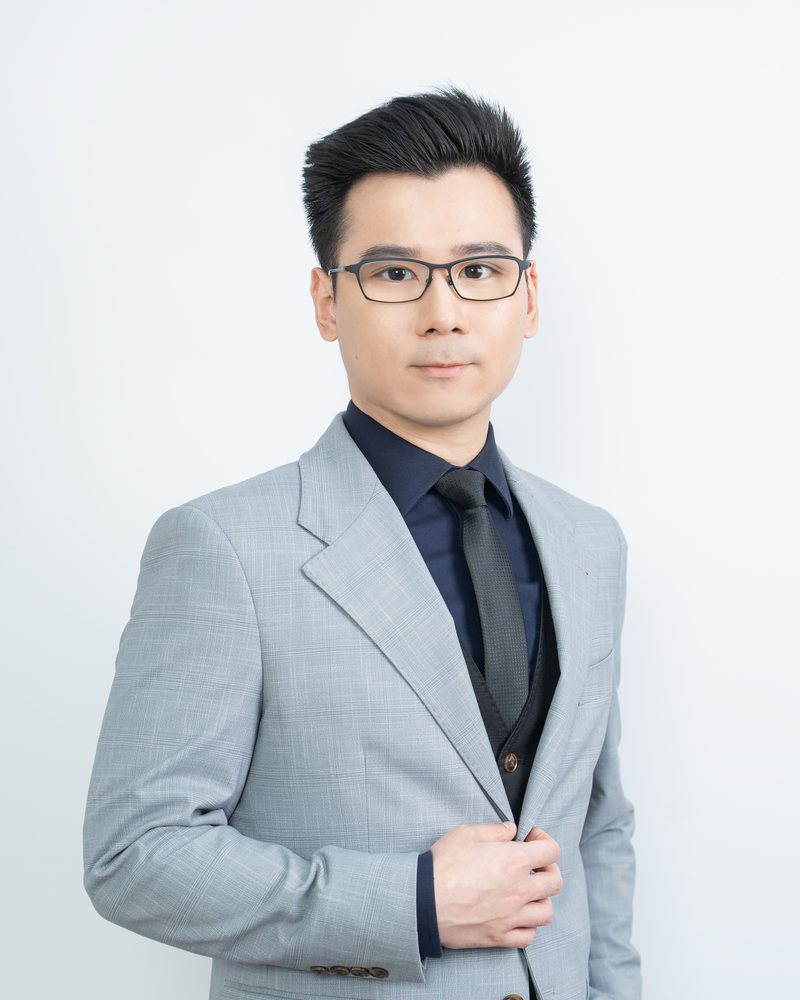
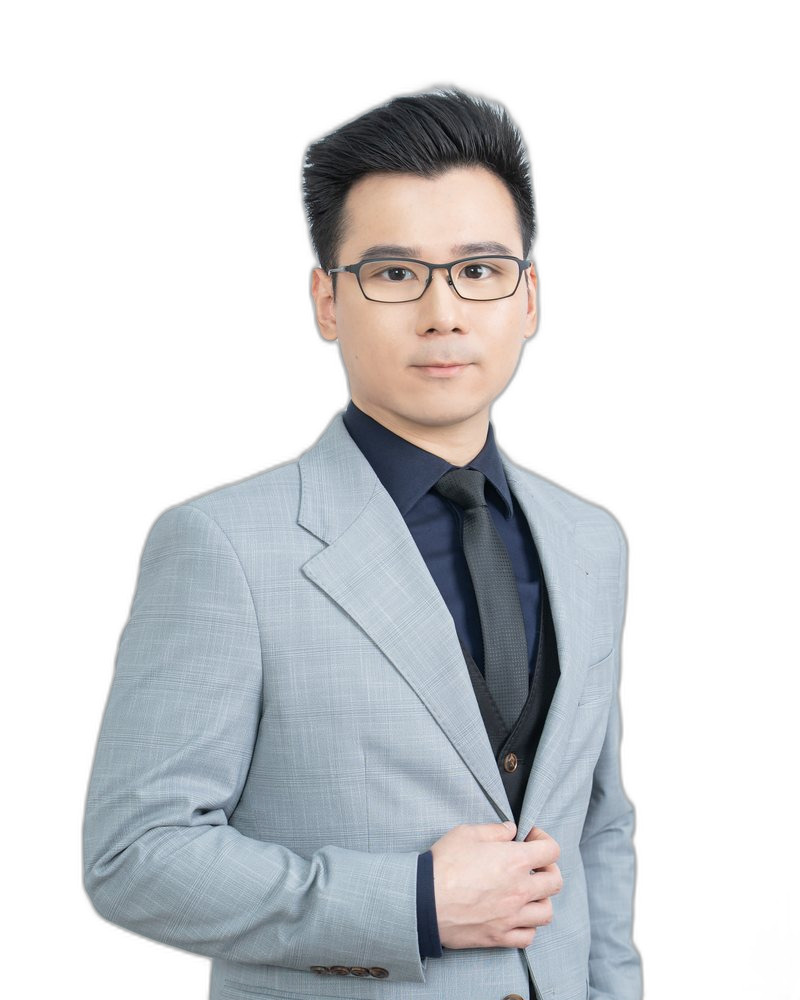
Unify team photo backgrounds to white (except Maggie); reframe Alan to match team

diff --git a/index-v4.html b/index-v4.html
@@ -457,7 +457,7 @@
         </div>
         <!-- Leon Chiu -->
         <div class="team-card" data-card-toggle>
-            <img class="team-photo" loading="lazy" decoding="async" src="images/team/leon.jpg?v=4" width="800" height="1000" alt="Mr. Leon Chiu">
+            <img class="team-photo" loading="lazy" decoding="async" src="images/team/leon.jpg?v=6" width="800" height="1000" alt="Mr. Leon Chiu">
             <div class="team-info">
                 <h3>Mr. Leon Chiu <span class="cn-inline">趙英安律師</span></h3>
                 <div class="role en">Associate Solicitor</div>
@@ -470,7 +470,7 @@
         </div>
         <!-- Alex Li -->
         <div class="team-card" data-card-toggle>
-            <img class="team-photo" loading="lazy" decoding="async" src="images/team/alex.jpg?v=4" width="800" height="1000" alt="Mr. Alex Li">
+            <img class="team-photo" loading="lazy" decoding="async" src="images/team/alex.jpg?v=6" width="800" height="1000" alt="Mr. Alex Li">
             <div class="team-info">
                 <h3>Mr. Alex Li <span class="cn-inline">李旻軒律師</span></h3>
                 <div class="role en">Associate Solicitor</div>
@@ -483,7 +483,7 @@
         </div>
         <!-- John Wan -->
         <div class="team-card" data-card-toggle>
-            <img class="team-photo" loading="lazy" decoding="async" src="images/team/john.jpg?v=4" width="800" height="1000" alt="Mr. John Wan">
+            <img class="team-photo" loading="lazy" decoding="async" src="images/team/john.jpg?v=6" width="800" height="1000" alt="Mr. John Wan">
             <div class="team-info">
                 <h3>Mr. John Wan <span class="cn-inline">尹國鈞律師</span></h3>
                 <div class="role en">Associate Solicitor</div>
@@ -496,7 +496,7 @@
         </div>
         <!-- Tindy Kwong -->
         <div class="team-card" data-card-toggle>
-            <img class="team-photo" loading="lazy" decoding="async" src="images/team/tindy.jpg?v=4" width="800" height="1000" alt="Mr. Tindy Kwong">
+            <img class="team-photo" loading="lazy" decoding="async" src="images/team/tindy.jpg?v=6" width="800" height="1000" alt="Mr. Tindy Kwong">
             <div class="team-info">
                 <h3>Mr. Tindy Kwong <span class="cn-inline">鄺天狄先生</span></h3>
                 <div class="role en">Legal Executive</div>
@@ -509,7 +509,7 @@
         </div>
         <!-- Jayden Lee -->
         <div class="team-card" data-card-toggle>
-            <img class="team-photo" loading="lazy" decoding="async" src="images/team/jayden.jpg?v=4" width="800" height="1000" alt="Mr. Jayden Lee">
+            <img class="team-photo" loading="lazy" decoding="async" src="images/team/jayden.jpg?v=6" width="800" height="1000" alt="Mr. Jayden Lee">
             <div class="team-info">
                 <h3>Mr. Jayden Lee <span class="cn-inline">李泫錞先生</span></h3>
                 <div class="role en">Litigation Officer</div>
@@ -522,7 +522,7 @@
         </div>
         <!-- Alan Ng -->
         <div class="team-card" data-card-toggle>
-            <img class="team-photo" loading="lazy" decoding="async" src="images/team/alan.jpg?v=5" width="800" height="1000" alt="Mr. Alan Ng">
+            <img class="team-photo" loading="lazy" decoding="async" src="images/team/alan.jpg?v=6" width="800" height="1000" alt="Mr. Alan Ng">
             <div class="team-info">
                 <h3>Mr. Alan Ng <span class="cn-inline">吳仲文先生</span></h3>
                 <div class="role en">Litigation Officer</div>

diff --git a/index.html b/index.html
@@ -457,7 +457,7 @@
         </div>
         <!-- Leon Chiu -->
         <div class="team-card" data-card-toggle>
-            <img class="team-photo" loading="lazy" decoding="async" src="images/team/leon.jpg?v=4" width="800" height="1000" alt="Mr. Leon Chiu">
+            <img class="team-photo" loading="lazy" decoding="async" src="images/team/leon.jpg?v=6" width="800" height="1000" alt="Mr. Leon Chiu">
             <div class="team-info">
                 <h3>Mr. Leon Chiu <span class="cn-inline">趙英安律師</span></h3>
                 <div class="role en">Associate Solicitor</div>
@@ -470,7 +470,7 @@
         </div>
         <!-- Alex Li -->
         <div class="team-card" data-card-toggle>
-            <img class="team-photo" loading="lazy" decoding="async" src="images/team/alex.jpg?v=4" width="800" height="1000" alt="Mr. Alex Li">
+            <img class="team-photo" loading="lazy" decoding="async" src="images/team/alex.jpg?v=6" width="800" height="1000" alt="Mr. Alex Li">
             <div class="team-info">
                 <h3>Mr. Alex Li <span class="cn-inline">李旻軒律師</span></h3>
                 <div class="role en">Associate Solicitor</div>
@@ -483,7 +483,7 @@
         </div>
         <!-- John Wan -->
         <div class="team-card" data-card-toggle>
-            <img class="team-photo" loading="lazy" decoding="async" src="images/team/john.jpg?v=4" width="800" height="1000" alt="Mr. John Wan">
+            <img class="team-photo" loading="lazy" decoding="async" src="images/team/john.jpg?v=6" width="800" height="1000" alt="Mr. John Wan">
             <div class="team-info">
                 <h3>Mr. John Wan <span class="cn-inline">尹國鈞律師</span></h3>
                 <div class="role en">Associate Solicitor</div>
@@ -496,7 +496,7 @@
         </div>
         <!-- Tindy Kwong -->
         <div class="team-card" data-card-toggle>
-            <img class="team-photo" loading="lazy" decoding="async" src="images/team/tindy.jpg?v=4" width="800" height="1000" alt="Mr. Tindy Kwong">
+            <img class="team-photo" loading="lazy" decoding="async" src="images/team/tindy.jpg?v=6" width="800" height="1000" alt="Mr. Tindy Kwong">
             <div class="team-info">
                 <h3>Mr. Tindy Kwong <span class="cn-inline">鄺天狄先生</span></h3>
                 <div class="role en">Legal Executive</div>
@@ -509,7 +509,7 @@
         </div>
         <!-- Jayden Lee -->
         <div class="team-card" data-card-toggle>
-            <img class="team-photo" loading="lazy" decoding="async" src="images/team/jayden.jpg?v=4" width="800" height="1000" alt="Mr. Jayden Lee">
+            <img class="team-photo" loading="lazy" decoding="async" src="images/team/jayden.jpg?v=6" width="800" height="1000" alt="Mr. Jayden Lee">
             <div class="team-info">
                 <h3>Mr. Jayden Lee <span class="cn-inline">李泫錞先生</span></h3>
                 <div class="role en">Litigation Officer</div>
@@ -522,7 +522,7 @@
         </div>
         <!-- Alan Ng -->
         <div class="team-card" data-card-toggle>
-            <img class="team-photo" loading="lazy" decoding="async" src="images/team/alan.jpg?v=5" width="800" height="1000" alt="Mr. Alan Ng">
+            <img class="team-photo" loading="lazy" decoding="async" src="images/team/alan.jpg?v=6" width="800" height="1000" alt="Mr. Alan Ng">
             <div class="team-info">
                 <h3>Mr. Alan Ng <span class="cn-inline">吳仲文先生</span></h3>
                 <div class="role en">Litigation Officer</div>

diff --git a/team-tindy.html b/team-tindy.html
@@ -69,7 +69,7 @@
 <div class="profile-page">
     <a class="back-link" href="index.html#team"><svg class="ico ico-arrow-up ico-back" aria-hidden="true" focusable="false"><use href="#i-arrow-up"/></svg><span class="en-inline">Back to Team</span><span class="cn-inline">返回團隊</span></a>
     <div class="profile-header">
-        <img class="profile-photo" src="images/team/tindy.jpg?v=4" alt="Mr. Tindy Kwong" decoding="async">
+        <img class="profile-photo" src="images/team/tindy.jpg?v=6" alt="Mr. Tindy Kwong" decoding="async">
         <div>
             <h1 class="profile-name">Mr. Tindy Kwong <span class="cn-inline">鄺天狄先生</span></h1>
             <div class="profile-title"><span class="en-inline">Legal Executive</span><span class="cn-inline">法律行政人員</span></div>

diff --git a/team-jayden.html b/team-jayden.html
@@ -69,7 +69,7 @@
 <div class="profile-page">
     <a class="back-link" href="index.html#team"><svg class="ico ico-arrow-up ico-back" aria-hidden="true" focusable="false"><use href="#i-arrow-up"/></svg><span class="en-inline">Back to Team</span><span class="cn-inline">返回團隊</span></a>
     <div class="profile-header">
-        <img class="profile-photo" src="images/team/jayden.jpg?v=4" alt="Mr. Jayden Lee" decoding="async">
+        <img class="profile-photo" src="images/team/jayden.jpg?v=6" alt="Mr. Jayden Lee" decoding="async">
         <div>
             <h1 class="profile-name">Mr. Jayden Lee <span class="cn-inline">李泫錞先生</span></h1>
             <div class="profile-title"><span class="en-inline">Litigation Officer</span><span class="cn-inline">訴訟主任</span></div>

diff --git a/team-leon.html b/team-leon.html
@@ -69,7 +69,7 @@
 <div class="profile-page">
     <a class="back-link" href="index.html#team"><svg class="ico ico-arrow-up ico-back" aria-hidden="true" focusable="false"><use href="#i-arrow-up"/></svg><span class="en-inline">Back to Team</span><span class="cn-inline">返回團隊</span></a>
     <div class="profile-header">
-        <img class="profile-photo" src="images/team/leon.jpg?v=4" alt="Mr. Leon Chiu" decoding="async">
+        <img class="profile-photo" src="images/team/leon.jpg?v=6" alt="Mr. Leon Chiu" decoding="async">
         <div>
             <h1 class="profile-name">Mr. Leon Chiu <span class="cn-inline">趙英安律師</span></h1>
             <div class="profile-title"><span class="en-inline">Associate Solicitor</span><span class="cn-inline">助理律師</span></div>

diff --git a/team-john.html b/team-john.html
@@ -69,7 +69,7 @@
 <div class="profile-page">
     <a class="back-link" href="index.html#team"><svg class="ico ico-arrow-up ico-back" aria-hidden="true" focusable="false"><use href="#i-arrow-up"/></svg><span class="en-inline">Back to Team</span><span class="cn-inline">返回團隊</span></a>
     <div class="profile-header">
-        <img class="profile-photo" src="images/team/john.jpg?v=4" alt="Mr. John Wan" decoding="async">
+        <img class="profile-photo" src="images/team/john.jpg?v=6" alt="Mr. John Wan" decoding="async">
         <div>
             <h1 class="profile-name">Mr. John Wan <span class="cn-inline">尹國鈞律師</span></h1>
             <div class="profile-title"><span class="en-inline">Associate Solicitor</span><span class="cn-inline">助理律師</span></div>

diff --git a/team-alex.html b/team-alex.html
@@ -69,7 +69,7 @@
 <div class="profile-page">
     <a class="back-link" href="index.html#team"><svg class="ico ico-arrow-up ico-back" aria-hidden="true" focusable="false"><use href="#i-arrow-up"/></svg><span class="en-inline">Back to Team</span><span class="cn-inline">返回團隊</span></a>
     <div class="profile-header">
-        <img class="profile-photo" src="images/team/alex.jpg?v=4" alt="Mr. Alex Li" decoding="async">
+        <img class="profile-photo" src="images/team/alex.jpg?v=6" alt="Mr. Alex Li" decoding="async">
         <div>
             <h1 class="profile-name">Mr. Alex Li <span class="cn-inline">李旻軒律師</span></h1>
             <div class="profile-title"><span class="en-inline">Associate Solicitor</span><span class="cn-inline">助理律師</span></div>

diff --git a/team-alan.html b/team-alan.html
@@ -69,7 +69,7 @@
 <div class="profile-page">
     <a class="back-link" href="index.html#team"><svg class="ico ico-arrow-up ico-back" aria-hidden="true" focusable="false"><use href="#i-arrow-up"/></svg><span class="en-inline">Back to Team</span><span class="cn-inline">返回團隊</span></a>
     <div class="profile-header">
-        <img class="profile-photo" src="images/team/alan.jpg?v=5" alt="Mr. Alan Ng" decoding="async">
+        <img class="profile-photo" src="images/team/alan.jpg?v=6" alt="Mr. Alan Ng" decoding="async">
         <div>
             <h1 class="profile-name">Mr. Alan Ng <span class="cn-inline">吳仲文先生</span></h1>
             <div class="profile-title"><span class="en-inline">Litigation Officer</span><span class="cn-inline">訴訟主任</span></div>

diff --git a/sw.js b/sw.js
@@ -4,7 +4,7 @@
  * is not the current CACHE, and skipWaiting()/clients.claim() make the new
  * worker take over promptly so users do not get stuck on a stale version.
  */
-const CACHE = 'ccm-v4-20261110e';
+const CACHE = 'ccm-v4-20261110f';
 const ASSETS = [
   './',
   './index.html',
